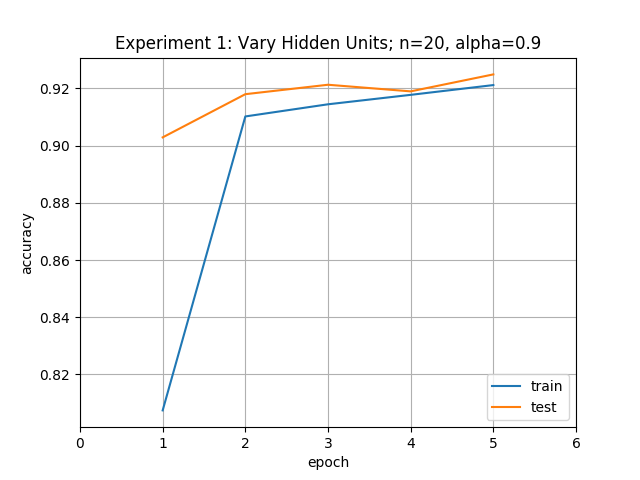
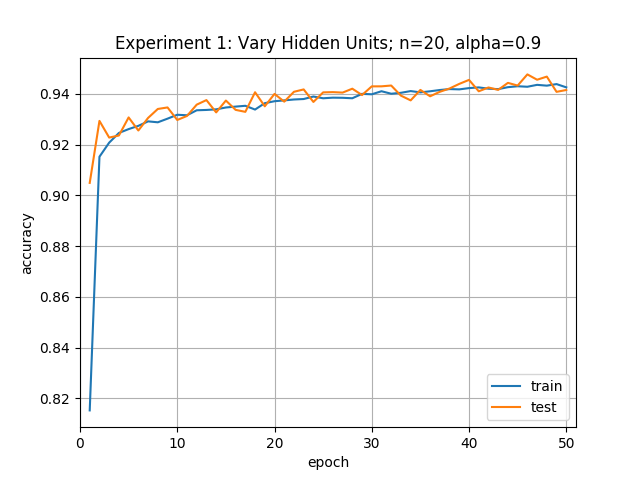
data update

diff --git a/train.py b/train.py
@@ -146,8 +146,8 @@ class mlp:
             # Hold onto our predictions
             predictions = np.zeros((self.SAMPLES,self.NEURONS))
 
-            print("\n\nEpoch:%s lr:%s n:%s N:%s decay:%s"
-                   % (e+1, self.LR, self.HIDDEN, self.SAMPLES, self.LAMBDA))
+            print("\n\nEpoch:%s lr:%s n:%s N:%s alpha:%s"
+                   % (e+1, self.LR, self.HIDDEN, self.SAMPLES, self.ALPHA))
 
             for N in range(self.SAMPLES):
 
@@ -174,7 +174,7 @@ class mlp:
                 u_h = (self.LR
                     * (np.dot((np.transpose((inputs[N])[np.newaxis])),
                            np.array(h_deltas[:-1])[np.newaxis]))
-                    + (self.ALPHA * u_h))
+                    + (self.ALPHA * u_h)) #- self.LAMBDA*u_h)
                 self.w_h += u_h
 
                 # Add predictions of sample to predictions array to compute confusion matrix
@@ -227,7 +227,7 @@ class mlp:
 def main():
     # title, inputs, samples, hidden units, learning rate, momentum, decay, epochs
     title = "Experiment 1: Vary Hidden Units"
-    hiddens = 20
+    hiddens = 100
     momentu = .9
     epochs  = 50
     inputs  = 784
@@ -236,7 +236,7 @@ def main():
     learnin = .1
     decay   = .5
     print("epochs:%s samples:%s hiddens:%s lr:%s alpha:%s"
-          %s
+          %
          (epochs, samples, hiddens, learnin, momentu))
     run = mlp(title, inputs, samples, hiddens, learnin, momentu, decay, epochs)
     run.train()
